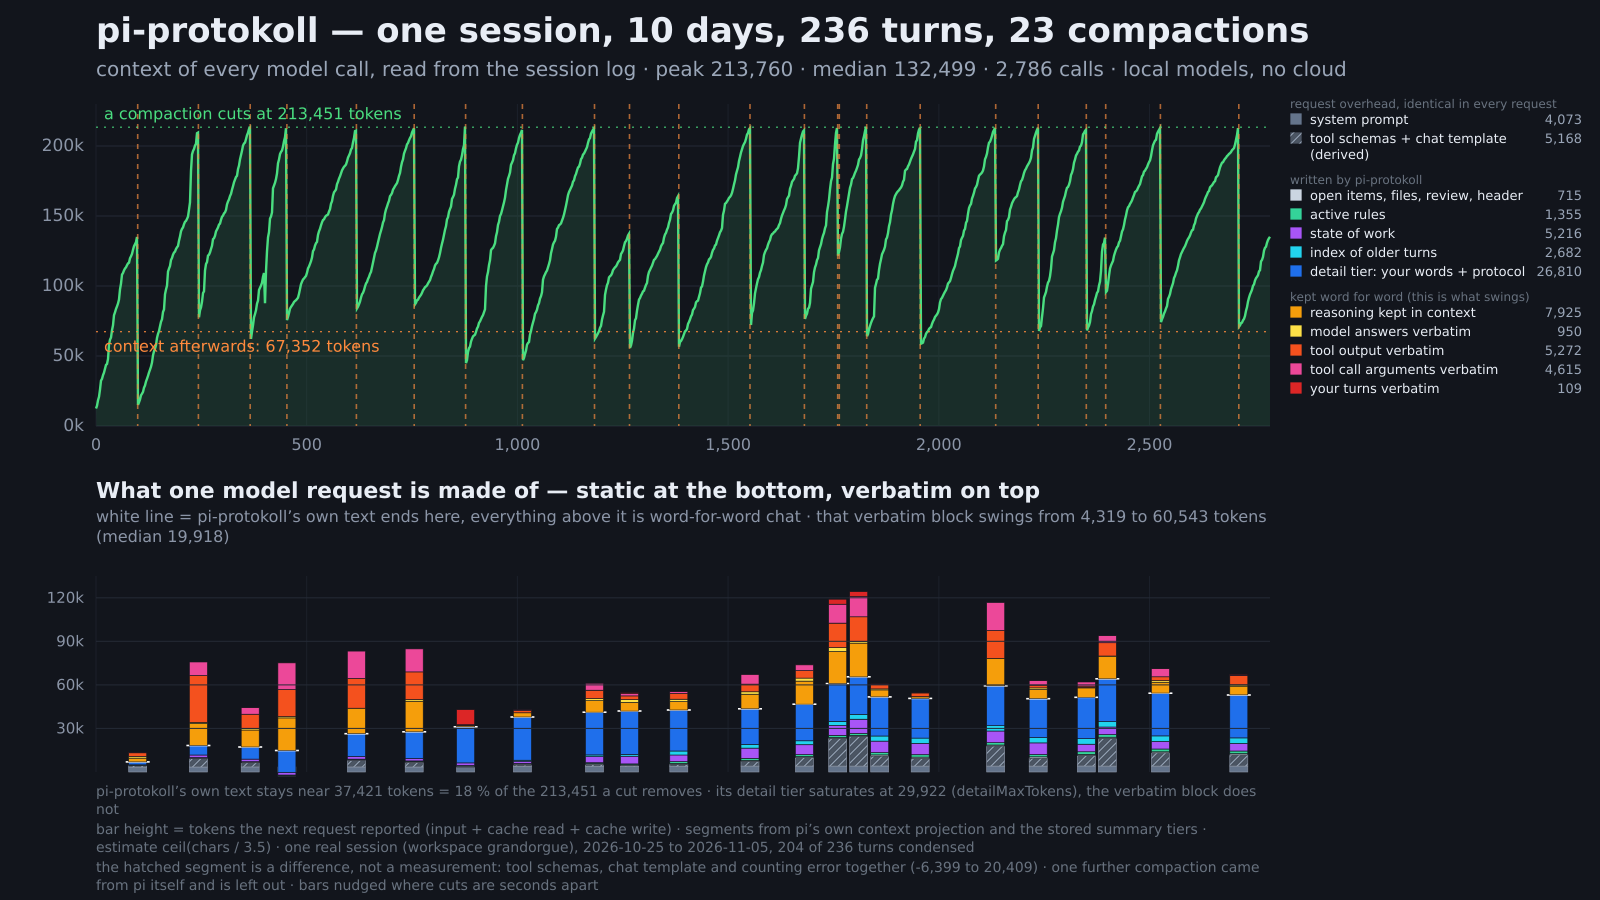
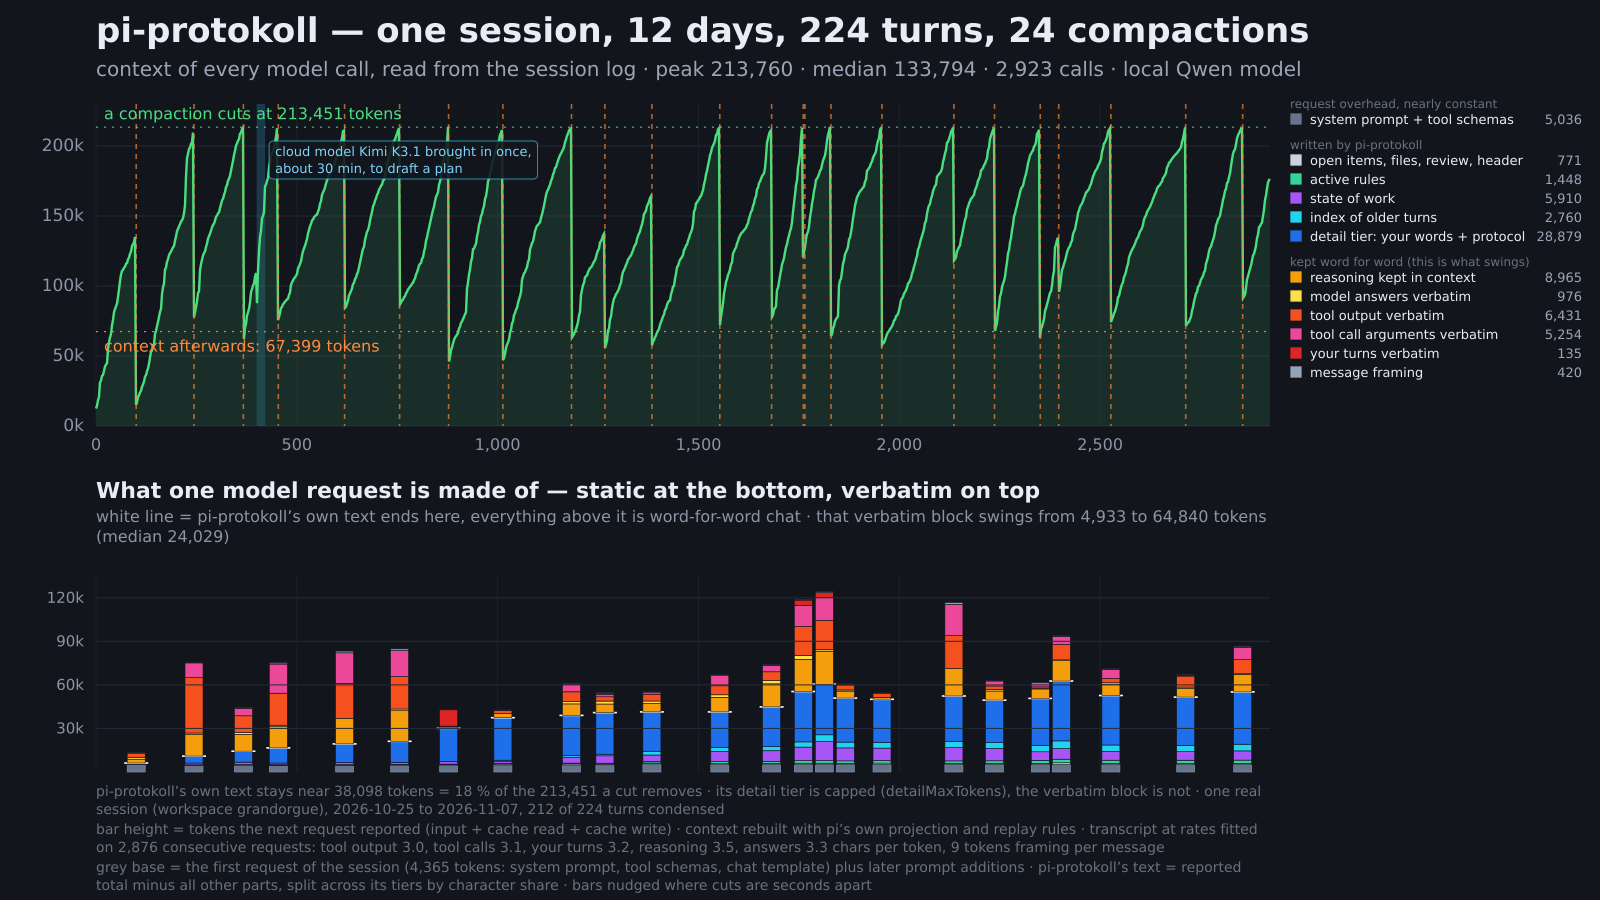
Correct the preview chart: measured token rates instead of chars/3.5
The hatched "tool schemas + chat template (derived)" segment was mostly the
error of ceil(chars / 3.5); the first request of the session shows schemas and
template at about 1k. The chart now rebuilds each request with pi's projection
and replay rules, prices the transcript at rates fitted on 2,876 consecutive
requests and gives the summary the remainder. Turn count fixed (224, not 236),
data brought up to the current session, and the 30 minutes on Kimi K3.1 (one
plan) are marked instead of "no cloud".

diff --git a/CHANGELOG.md b/CHANGELOG.md
@@ -1,5 +1,9 @@
 # Changelog
 
+## Unreleased
+
+- **Preview image corrected.** The hatched "tool schemas + chat template (derived)" segment of the old chart was mostly counting error: `ceil(chars / 3.5)` against a tokenizer that needs 2.5–3.7 characters per token in the summary, depending on how much code and how many paths it holds. Measured on the same session (now 12 days, 224 turns by `collectTurns`, 24 compactions, 2,923 calls): the first request – system prompt, tool schemas, chat template – costs 4,365 tokens, so schemas and template are at most about 1k and constant. The new chart rebuilds every request with pi's projection *and* its replay rules (thinking from another model and aborted replies are not sent), prices the transcript at rates fitted on 2,876 consecutive requests (tool output 3.0, tool calls 3.1, own turns 3.2, reasoning 3.5, answers 3.3 characters per token, 9 tokens framing per message, 231 tokens RMS error), and gives pi-protokoll's summary the remainder of the reported total, split across its tiers by character share. The old turn count (236) was wrong as well. The session also ran for 30 minutes on a cloud model (Kimi K3.1), brought in once to draft a plan; the chart now marks that window instead of saying "no cloud".
+
 ## 0.9.8 – 2026-11-06
 
 - **The lookup tools (`protocol_turn`, `protocol_read`, `protocol_search`) are declared only once the session holds a compaction.** Before that every turn is still in the context and there is nothing to look up. A reported session (Qwen 3.8-27B) with a single message "hi" ran 35 rounds in which the model called `protocol_turn(1)`, `(2)`, `(3)` … and each result said the turn did not exist; the extension had written nothing, the loop was the tool calls alone. A compaction rewrites the context anyway, so declaring the tools then costs no extra cache. The "turn does not exist" result now says how many turns there are and tells the model not to try further numbers.

diff --git a/README.de.md b/README.de.md
@@ -1,6 +1,6 @@
 # pi-protokoll
 
-![Was ein Modell-Request nach jedem der 23 Compactions in einer echten 10-Tage-Sitzung umfasst](https://raw.githubusercontent.com/sebion7125/pi-protokoll/main/docs/preview.png)
+![Was ein Modell-Request nach jedem der 24 Compactions in einer echten 12-Tage-Sitzung umfasst](https://raw.githubusercontent.com/sebion7125/pi-protokoll/main/docs/preview.png)
 
 Eine [Pi](https://pi.dev)-Erweiterung für sehr lange Sitzungen mit lokalen Modellen: Das Modell
 schreibt am Ende jedes Zugs ein kurzes Protokoll, und das Compacting baut daraus eine

diff --git a/README.md b/README.md
@@ -1,6 +1,6 @@
 # pi-protokoll
 
-![What one model request is made of after each of 23 compactions in a real 10-day session](https://raw.githubusercontent.com/sebion7125/pi-protokoll/main/docs/preview.png)
+![What one model request is made of after each of 24 compactions in a real 12-day session](https://raw.githubusercontent.com/sebion7125/pi-protokoll/main/docs/preview.png)
 
 A [Pi](https://pi.dev) extension that makes very long sessions possible with local models:
 the model writes a short protocol at the end of every turn, and compaction builds a bounded,
